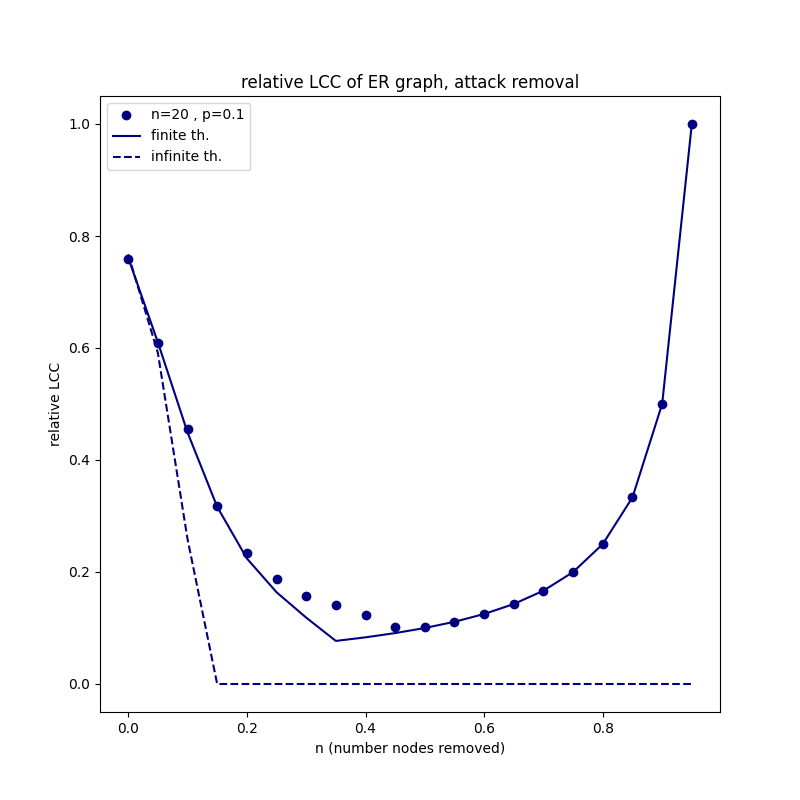
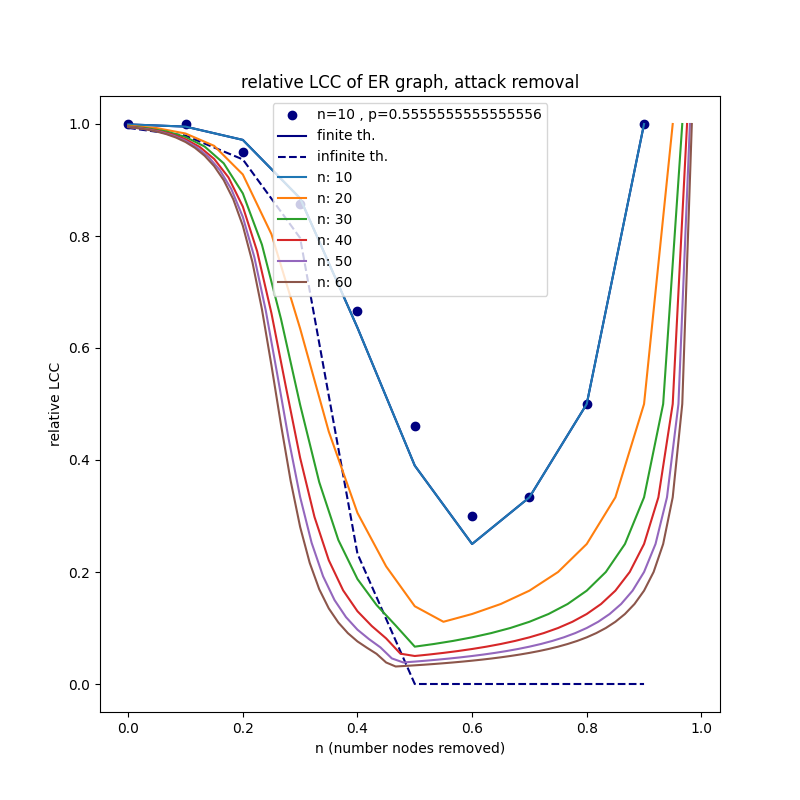
check

diff --git a/Simulation Runs 2.py b/Simulation Runs 2.py
@@ -28,7 +28,53 @@ from finiteTheory import *
 fvals = pickle.load(open('data/fvalues.p', 'rb'))
 pvals = pickle.load(open('data/Pvalues.p', 'rb'))
 
+def one_perc_thresh(threshold=.5, nodes=[10,20,30,40,50,60], removal = ["attack"]):
+    if removal == ["random"]:
+        remove_bool = False
+    elif removal == ["attack"]:
+        remove_bool = True
+    percthresh = threshold
+    nodes_array = nodes
+    prob_array = np.zeros(len(nodes_array))
+    for i in range(len(nodes_array)):
+        prob_array[i] = 1/(percthresh*(nodes_array[i]-1))
+    print(prob_array)
+    fig = plot_graphs(numbers_of_nodes=[nodes_array[0]], edge_probabilities=[prob_array[0]],
+                      graph_types=['ER'], remove_strategies=removal,
+                      performance='relative LCC', num_trials=10,
+                      smooth_end=False, forbidden_values=[], fdict=fvals, lcc_method_main="pmult", savefig='',
+                      simbool=True)
+    for j in range(len(nodes_array)):
+        plt.plot(np.arange(nodes_array[j])/nodes_array[j],finiteTheory.relSCurve(prob_array[j],nodes_array[j],
+                                attack=remove_bool, fdict=fvals,pdict=pvals,lcc_method_relS="pmult"), label = "n: "+str(nodes_array[j]))
+    plt.legend()
+    fig.savefig("testfig.png")
 
+#one_perc_thresh(.2 ,[10,20,30,40,50,60])
+
+# import ast
+# df = pd.read_csv("fullData.csv")
+# aucftr = df["fin theory rand auc"].values
+# node_list = df["nodes"].values
+# tot_networks = len(df)
+# max_netwk = node_list.max()
+# aucftr_avg = np.zeros(max_netwk,dtype=object)
+# for k1 in range(max_netwk):
+#     aucftr_avg[k1] = np.zeros(k1)
+# for k in range(tot_networks):
+#     size = node_list[k]
+#     print(aucftr[k])
+#     newauc = aucftr[k]
+#     newauc = newauc.strip('][').split(', ')
+#     print(newauc)
+#     newauc = np.asarray(newauc, dtype=float)
+#     print(type(newauc))
+#     print(newauc)
+#     aucftr_avg[size] += newauc
+#
+# print(aucftr_avg)
+
+#one_perc_thresh(.5,[10,20])
 #fig, (ax1, ax2) = plt.subplots(1, 2)
 # ax1 = plot_graphs(numbers_of_nodes=[20], edge_probabilities=[.1,.2,.5],
 #     graph_types=['ER'], remove_strategies=['attack'],
@@ -523,6 +569,9 @@ def table_info(theory=False, nwks_list=["dolphin.adj"]):
                   "fin theory rand auc", "fin theory attack auc"]
     return df
 
+
+print(table_info(False, ["AmadMyJn12-20.adj"]))
+# print("done")
 from fnmatch import fnmatch
 
 root = r'C:\Users\jj\Downloads\GitHub\small-perc\nwks small perc'

diff --git a/libs/visualizations.py b/libs/visualizations.py
@@ -25,7 +25,7 @@ from scipy.signal import argrelextrema
 def plot_graphs(numbers_of_nodes=[100], edge_probabilities=[0.1],
     graph_types=['ER', 'SF'], remove_strategies=['random', 'attack'],
     performance='largest_connected_component', num_trials=100,
-    smooth_end=False, forbidden_values=[], fdict={}, pdict={}, lcc_method_main = "abc", savefig=''):
+    smooth_end=False, forbidden_values=[], fdict={}, pdict={}, lcc_method_main = "abc", savefig='', simbool = True):
     '''Calculate edge probability in an Erdos--Renyi network with original size
     `n` and original edge probability `p` after removing the node with the
     highest degree.
@@ -123,10 +123,11 @@ def plot_graphs(numbers_of_nodes=[100], edge_probabilities=[0.1],
                     removed_fraction = np.arange(n)/n
                     line_data = np.nanmean(data_array,axis=0)
 
-                    ax1.plot(removed_fraction, line_data,
-                        'o', color=colors[line_index], 
-                        label="n={} , p={}".format(n , p))
-  
+                    if simbool:
+                        ax1.plot(removed_fraction, line_data,
+                            'o', color=colors[line_index],
+                            label="n={} , p={}".format(n , p))
+
                     if performance=='relative LCC':
 
                         attack = (remove_strategy=='attack')
